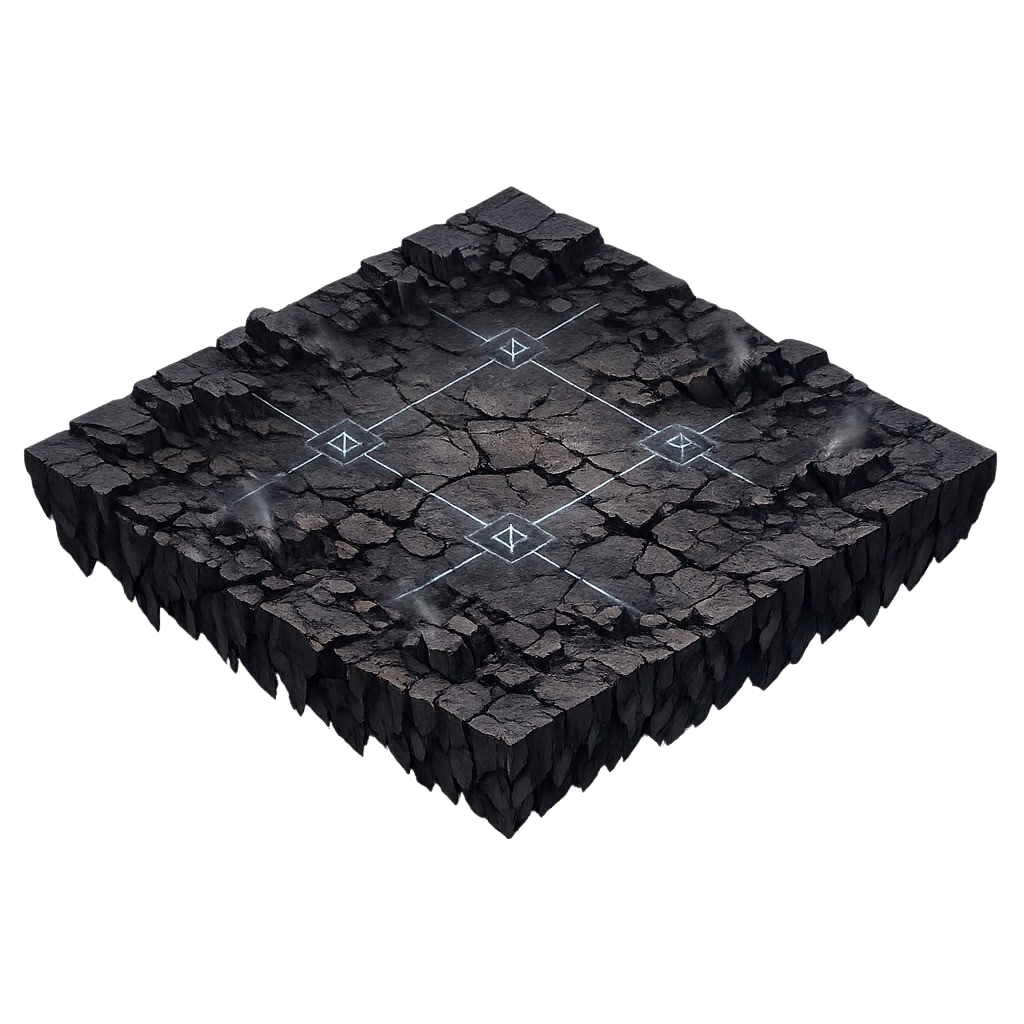
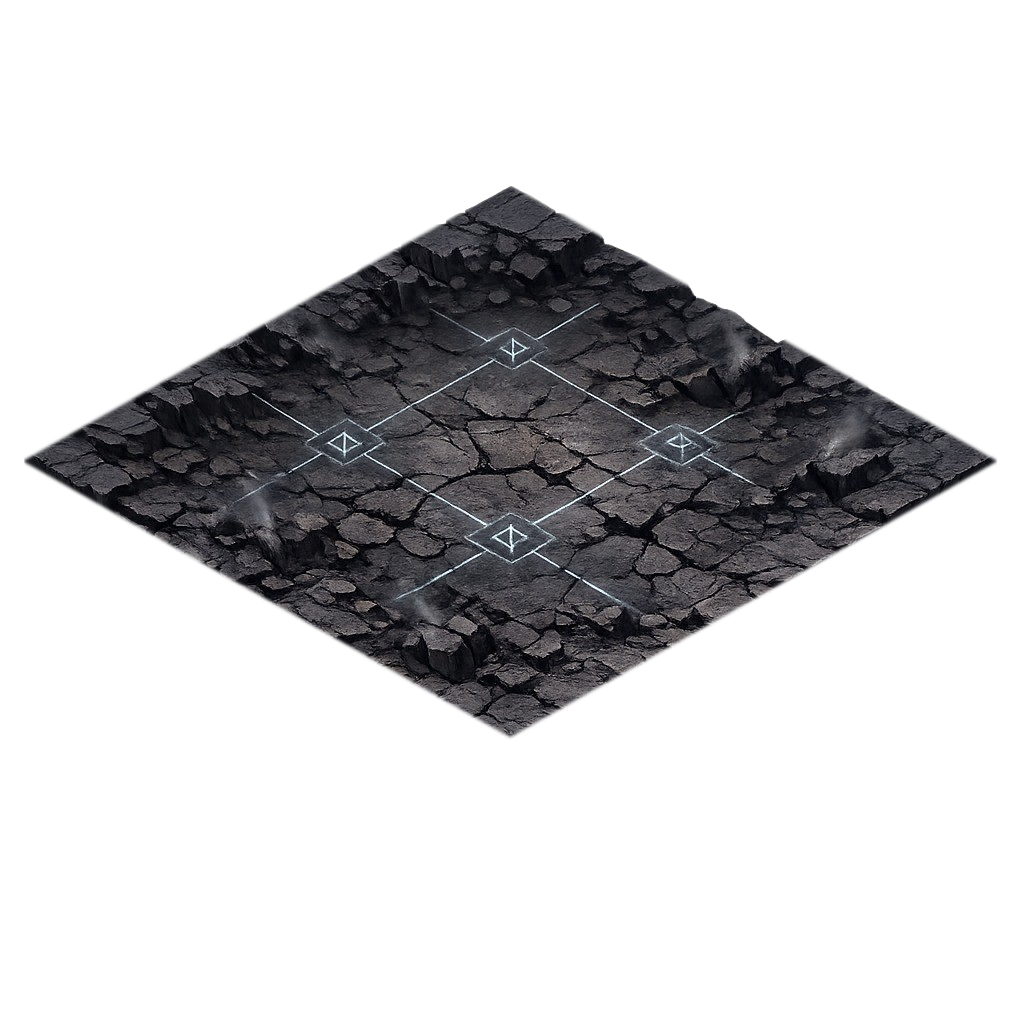
[fix] pixelation of tiles and isometric tiling logic

diff --git a/frontend/src/game/phaser/scenes/TerraceScene.ts b/frontend/src/game/phaser/scenes/TerraceScene.ts
@@ -1,8 +1,8 @@
 import Phaser from 'phaser';
 
 export class TerraceScene extends Phaser.Scene {
-  private tileWidth = 880;
-  private tileHeight = 542;
+  private tileWidth = 974;
+  private tileHeight = 552;
   private mapSize = 10;
 
   private minZoom = 0.2;
@@ -14,6 +14,7 @@ export class TerraceScene extends Phaser.Scene {
 
   preload() {
     this.load.image('ground-tile', 'assets/ground-tile.png');
+    this.load.image('ground-tile-edge', 'assets/ground-tile-edge.png');
   }
 
   create() {
@@ -25,20 +26,32 @@ export class TerraceScene extends Phaser.Scene {
     const groundLayer = this.add.layer();
     //const worldLayer = this.add.layer();
 
+    const texture = this.textures.get('ground-tile')
+    if (texture) {
+      texture.setFilter(Phaser.Textures.FilterMode.LINEAR);
+    }
+
+    const tilePositions = [];
+
     for (let y = 0; y < this.mapSize; y++) {
       for (let x = 0; x < this.mapSize; x++) {
         const { isoX, isoY } = this.cartesianToIso(x, y);
-
-        if (this.textures.exists('ground-tile')) {
-          const tile = this.add.image(isoX, isoY, 'ground-tile');
-          tile.setOrigin(0.5, 0.5);
-          tile.setSize(880, 542)
-          groundLayer.add(tile)
-        } else {
-          this.drawMockTile(isoX, isoY);
-        }
+        tilePositions.push({ x: isoX, y: isoY, depth: x + y, edge: y==this.mapSize-1 || x==this.mapSize-1 });
       }
     }
+
+    tilePositions.sort((a, b) => a.depth - b.depth);
+
+    tilePositions.forEach((pos) => {
+      let tile;
+
+      if (pos.edge) tile = this.add.image(pos.x, pos.y, 'ground-tile-edge')
+      else tile = this.add.image(pos.x, pos.y, 'ground-tile');
+
+      tile.setOrigin(0.5, 0.181);
+      tile.setDepth(pos.y);
+      groundLayer.add(tile)
+    });
 
     this.input.on('pointermove', (pointer: Phaser.Input.Pointer) => {
       if (!pointer.isDown) return; // Only execute if mouse click is held down
@@ -63,21 +76,5 @@ export class TerraceScene extends Phaser.Scene {
     const isoX = (mapX - mapY) * (this.tileWidth / 2);
     const isoY = (mapX + mapY) * (this.tileHeight / 2);
     return { isoX, isoY };
-  }
-
-  private drawMockTile(x: number, y: number) {
-    const graphics = this.add.graphics();
-    graphics.lineStyle(1, 0x2c2927, 1);
-    graphics.fillStyle(0x181716, 1);
-
-    graphics.beginPath();
-    graphics.moveTo(x, y - this.tileHeight / 2);                 // Top
-    graphics.lineTo(x + this.tileWidth / 2, y);                  // Right
-    graphics.lineTo(x, y + this.tileHeight / 2);                 // Bottom
-    graphics.lineTo(x - this.tileWidth / 2, y);                  // Left
-    graphics.closePath();
-
-    graphics.fillPath();
-    graphics.strokePath();
   }
 }

diff --git a/frontend/src/game/phaser/GameCanvas.tsx b/frontend/src/game/phaser/GameCanvas.tsx
@@ -17,7 +17,9 @@ export default function GameCanvas() {
       height: '100%',
       scene: [TerraceScene],
       transparent: true,
-      pixelArt: true, 
+      pixelArt: false, 
+      antialias: true,
+      antialiasGL: true,
       scale: {
         mode: Phaser.Scale.RESIZE,
         autoCenter: Phaser.Scale.CENTER_BOTH,

diff --git a/frontend/src/app/routes/Game.tsx b/frontend/src/app/routes/Game.tsx
@@ -22,7 +22,7 @@ export default function GameDashboard() {
 
       <GameHud
         username={user?.username || "Unknown Penitent"}
-        level={4}
+        level={user?.level || 1}
         penitence={penitence}
         grace={grace}
         sinMeter={sinMeter}